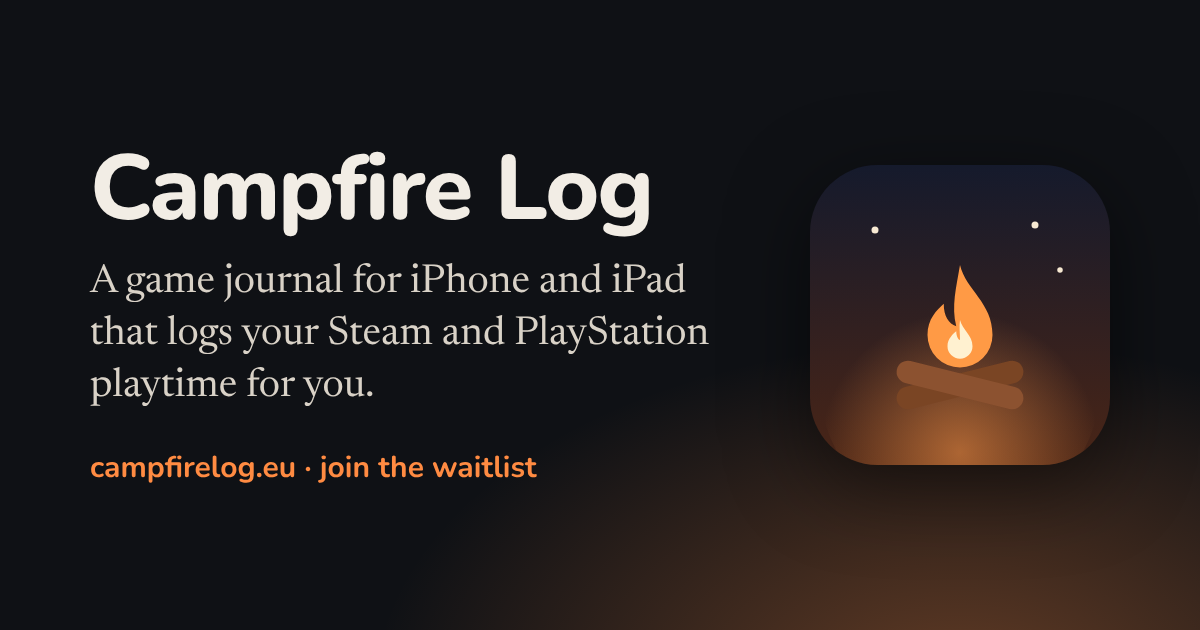
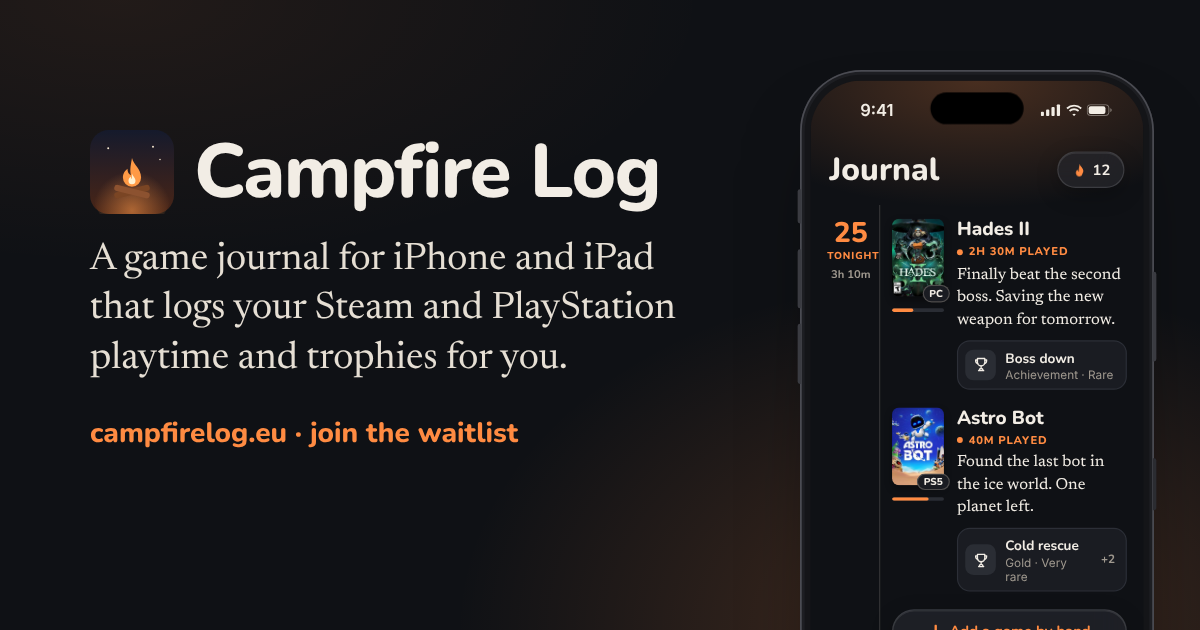
New link preview image: the Journal screen next to the name (#4)
Also mentions trophies in the link preview description.

Claude-Session: https://claude.ai/code/session_01L8xkQjvZQNYu7MrxkwPFhx

diff --git a/index.html b/index.html
@@ -11,7 +11,7 @@
 <meta property="og:type" content="website">
 <meta property="og:url" content="https://campfirelog.eu/">
 <meta property="og:title" content="Campfire Log">
-<meta property="og:description" content="A game journal for iPhone and iPad that logs your Steam and PlayStation playtime for you. Join the waitlist.">
+<meta property="og:description" content="A game journal for iPhone and iPad that logs your Steam and PlayStation playtime and trophies for you. Join the waitlist.">
 <meta property="og:image" content="https://campfirelog.eu/og.png">
 <meta property="og:image:width" content="1200">
 <meta property="og:image:height" content="630">
